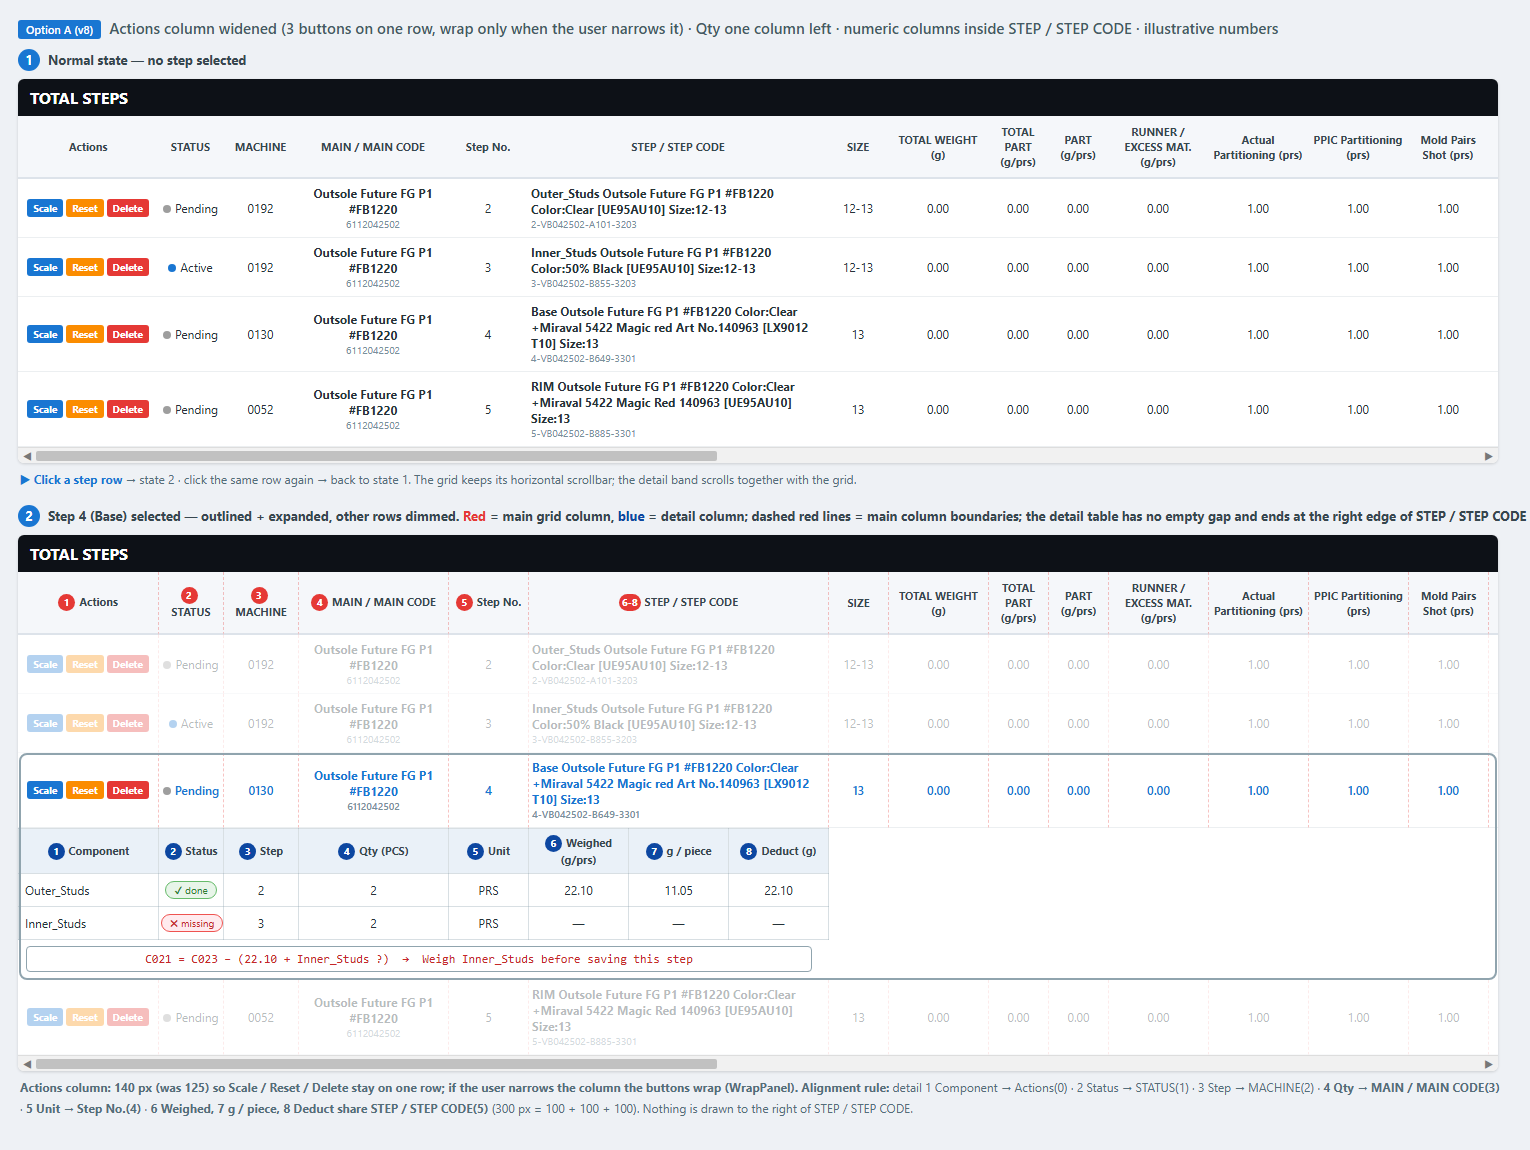
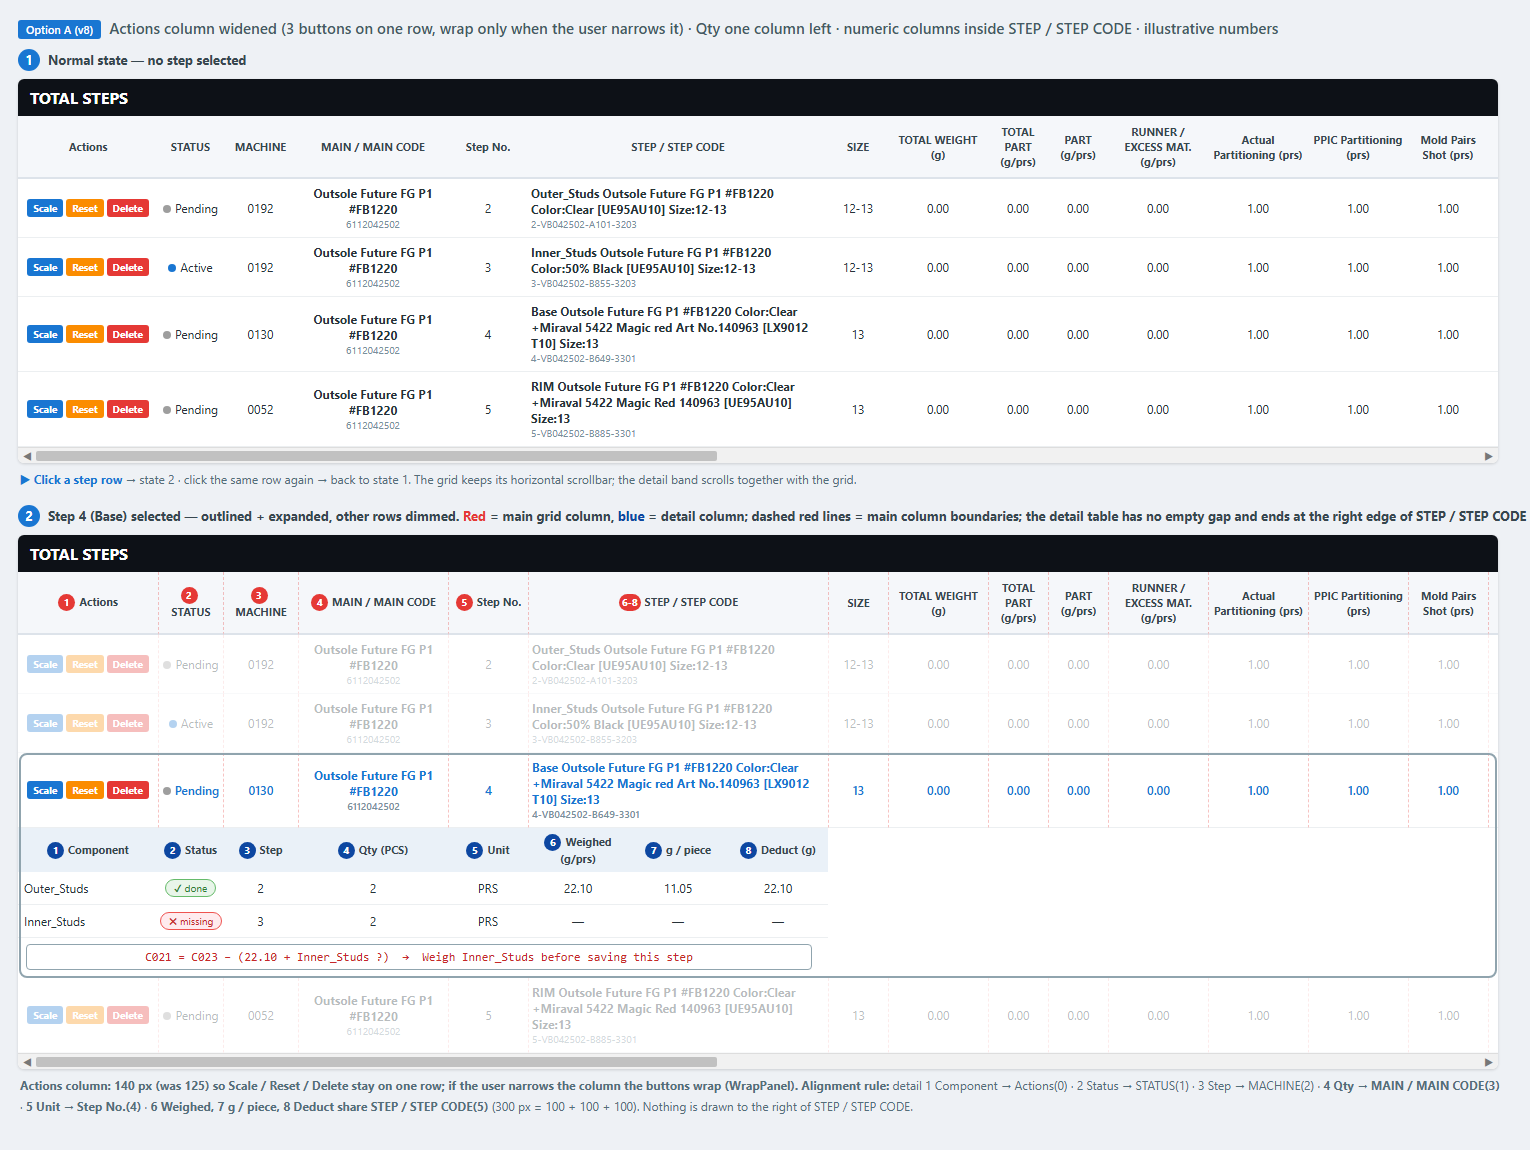
docs: BOM level 2 mockup v8 - detail grid with row separator lines only

diff --git a/SSSW/docs/plan/BOM_LEVEL2_ROW_DETAILS_UI.md b/SSSW/docs/plan/BOM_LEVEL2_ROW_DETAILS_UI.md
@@ -15,7 +15,8 @@
 7. Dời cột Qty sang trái 1 cột (xuống dưới MAIN / MAIN CODE) để không còn khoảng trống; Unit dịch theo xuống dưới Step No.
 8. Nới cột Actions để 3 nút Scale / Reset / Delete nằm trên 1 hàng như ban đầu; chỉ khi user kéo hẹp cột thì nút mới tự rớt xuống dòng.
 9. **Viền highlight của step được chọn phải hiển thị đầy đủ 4 cạnh (trước đó mất cạnh trái và phải).**
-10. **Bảng chi tiết có viền mờ, ăn sát theo đúng số cột chi tiết (8 cột), không kéo dài ra phần lưới phía sau.**
+10. Bảng chi tiết ăn sát theo đúng số cột chi tiết (8 cột), không kéo dài ra phần lưới phía sau.
+11. **Lưới chi tiết kiểu giống ảnh mẫu: tiêu đề nền xanh nhạt, chỉ có đường kẻ ngang giữa các dòng, không có đường kẻ dọc.**
 
 ## 2. Hình thiết kế (v8 — theo đúng lưới thật, bảng chi tiết nằm gọn trong 6 cột đầu, Actions đủ rộng cho 3 nút)
 
@@ -25,7 +26,7 @@
 - Đường gióng đỏ nét đứt = ranh giới cột lưới chính. **Cột chi tiết 1–5 (Component, Status, Step, Qty, Unit) nằm đúng dưới Actions, STATUS, MACHINE, MAIN / MAIN CODE, Step No.** Cột 6–8 (Weighed, g / piece, Deduct) chia đều bề rộng 300px của cột STEP / STEP CODE (100 + 100 + 100), nên bảng chi tiết liền mạch, không có khoảng trống, và kết thúc đúng mép phải cột STEP / STEP CODE.
 - Dải chi tiết rộng bằng cả lưới và **cuộn ngang cùng lưới**; mọi vùng bên phải cột STEP / STEP CODE (từ SIZE trở đi) để trống.
 - **Viền chọn**: khung bo góc, xám xanh `#90A4AE`, đủ 4 cạnh quanh dòng step + bảng chi tiết.
-- **Viền bảng chi tiết**: lưới viền mờ (`#90A4AE` ~35% độ đậm) chỉ bao đúng 8 cột chi tiết (từ Actions đến hết STEP / STEP CODE); khung công thức bên dưới cũng rộng bằng bảng.
+- **Lưới bảng chi tiết**: hàng tiêu đề nền xanh nhạt (`#EAF1F8`); chỉ có đường kẻ ngang mảnh (`#ECEFF1`) giữa các dòng, **không có đường kẻ dọc**; bảng chỉ rộng đúng 8 cột chi tiết (từ Actions đến hết STEP / STEP CODE); khung công thức bên dưới rộng bằng bảng.
 - Dữ liệu trong hình là minh họa (bố cục lấy từ ảnh chụp lưới thật, FG `6112042502`; Qty/trọng lượng chi tiết do mình đặt ví dụ).
 
 ## 3. Ánh xạ cột chi tiết → cột lưới chính
@@ -61,7 +62,7 @@ Quy tắc căn: cột chi tiết 1–5 thẳng hàng với cột lưới 0–4. 
 | Lưới có thanh cuộn ngang | Dải chi tiết là một phần của `RowDetailsTemplate` nên cuộn cùng lưới; không dùng `AreRowDetailsFrozen` | Cần kiểm tra khi cuộn ở app thật |
 | Cột Component hẹp (140px sau khi nới) | Cắt chữ + tooltip hiện mã chi tiết | Nới cột Actions thêm nếu vẫn chật |
 | Viền chọn đủ 4 cạnh | Hình vẽ khung theo bề rộng vùng nhìn thấy của lưới. Trong `DataGridRow`, viền `BorderThickness=2` vẽ cả 4 cạnh nhưng trải theo **bề rộng toàn bộ các cột**, nên cạnh phải chỉ thấy khi cuộn ngang tới cuối | **Cần chốt cách làm** — (1) giữ viền của `DataGridRow` (cạnh phải ở cuối lưới); hoặc (2) vẽ khung phủ theo viewport (phải thêm lớp phủ tính theo vị trí dòng và `ScrollViewer`) để cạnh phải luôn thấy |
-| Viền mờ bảng chi tiết | Mỗi ô chi tiết có `BorderBrush` mờ (`#5990A4AE`), `BorderThickness` 1; không vẽ viền cho phần còn lại của dải | Dễ làm trong `Level2DetailsTemplate`; khung công thức đặt `HorizontalAlignment=Left` và rộng bằng tổng 8 cột |
+| Lưới chi tiết chỉ có đường kẻ ngang | Mỗi dòng chi tiết là một `StackPanel` có `Border` dưới (`BorderThickness="0,0,0,1"`, `#ECEFF1`); các ô không có viền dọc | Dễ làm trong `Level2DetailsTemplate`; khung công thức đặt `HorizontalAlignment=Left` và rộng bằng tổng 8 cột |
 | 3 nút Actions bị rớt dòng ở độ rộng cũ (125px) | Nới cột 0 lên 140px + `WrapPanel` trong ô Actions | Ở 140px nằm 1 hàng; kéo hẹp hơn thì tự xuống dòng, không bị cắt |
 | Chip Status trong 65px | Chữ ngắn "✔ done" / "✖ missing" | Có thể nới nhẹ cột STATUS |
 | `FT600` không có `INotifyPropertyChanged` | `RefreshStepsGridCore()` dựng lại lưới, kèm dựng lại `Level2Items` | Selection bị reset mỗi lần dựng lại → `FocusGridRowAction` chọn lại step đang cân |
@@ -119,5 +120,5 @@ flowchart LR
 - [ ] Màu viền dòng được chọn, tên Component dài, chip "✖ missing" trong cột 65px có chấp nhận được.
 - [ ] Cột STATUS (đã căn lại 2026-11-04) thẳng hàng với MACHINE / Step No.
 - [ ] Viền chọn đủ 4 cạnh (kể cả khi cuộn ngang) — chọn cách (1) hay (2) ở §4.
-- [ ] Viền mờ bảng chi tiết ăn sát 8 cột, không tràn ra phía sau cột STEP / STEP CODE.
+- [ ] Lưới chi tiết giống ảnh mẫu: chỉ có đường kẻ ngang giữa các dòng (không đường dọc), ăn sát 8 cột, không tràn ra phía sau cột STEP / STEP CODE.
 - [ ] Cột Actions 140px: 3 nút Scale / Reset / Delete nằm 1 hàng; kéo hẹp cột thì nút tự rớt dòng, không bị cắt; chiều cao dòng step không phình thêm.

diff --git a/SSSW/docs/sessions/2026-11-04_status-column-align-bom-l2-ui-options.md b/SSSW/docs/sessions/2026-11-04_status-column-align-bom-l2-ui-options.md
@@ -14,7 +14,7 @@
 - Hiểu "gạch chân đều nhau" là căn thẳng hàng theo chiều dọc của ô STATUS với các cột còn lại; nếu ý khác (đường kẻ ngang giữa các dòng) cần ảnh rõ hơn.
 
 ## Đã làm (tiếp) — UI BOM Level 2 (phương án A v3)
-- Mockup v8 (`docs/image/bom_level2_option_A_v8_actions_wide.png`, thay v3–v7; viền chọn đủ 4 cạnh, bảng chi tiết có viền mờ ăn sát 8 cột; cột Actions nới 125 → 140px để 3 nút 1 hàng, `WrapPanel` tự rớt dòng khi kéo hẹp; trước đó: vẽ đủ cột của lưới thật; giữ 8 cột như v3, cột 1–5 căn theo Actions / STATUS / MACHINE / MAIN / Step No. (Qty dời sang trái 1 cột, Unit dịch theo), cột 6–8 (Weighed, g / piece, Deduct) chia đều bề rộng cột STEP / STEP CODE). Code hiện có vẫn theo v3 — chờ duyệt v7 mới sửa: cột chi tiết sắp lại theo thứ tự xanh và căn cùng đường dọc với cột lưới chính (bảng map ở `brainstorm/BOM_LEVEL2_UI_OPTIONS.md`).
+- Mockup v8 (`docs/image/bom_level2_option_A_v8_actions_wide.png`, thay v3–v7; viền chọn đủ 4 cạnh, lưới chi tiết chỉ có đường kẻ ngang giữa các dòng (giống ảnh mẫu), ăn sát 8 cột; cột Actions nới 125 → 140px để 3 nút 1 hàng, `WrapPanel` tự rớt dòng khi kéo hẹp; trước đó: vẽ đủ cột của lưới thật; giữ 8 cột như v3, cột 1–5 căn theo Actions / STATUS / MACHINE / MAIN / Step No. (Qty dời sang trái 1 cột, Unit dịch theo), cột 6–8 (Weighed, g / piece, Deduct) chia đều bề rộng cột STEP / STEP CODE). Code hiện có vẫn theo v3 — chờ duyệt v7 mới sửa: cột chi tiết sắp lại theo thứ tự xanh và căn cùng đường dọc với cột lưới chính (bảng map ở `brainstorm/BOM_LEVEL2_UI_OPTIONS.md`).
 - Code: `models/Level2DetailItem.cs` (mới); `FT600.partial.cs` (+`Level2Items`, `Level2Formula`, `Level2HasMissing`); `ShotWeightViewModel.RefreshLevel2Details()` gọi trong `RefreshStepsGridCore`; `ShotWeightStyles.xaml` (`StepRowStyle`, `Level2DetailsTemplate`, converter `NullToCollapsed`); `ScaleConverters.cs` (`NullToCollapsedConverter`); `ShotWeightWindow.xaml` (+ thuộc tính `dgTotalSteps`); `ShotWeightWindow.xaml.cs` (làm mờ dòng, click lại để bỏ chọn).
 - Hành vi: chọn step → viền nổi + xổ chi tiết, dòng khác mờ; click lại → bỏ chọn; sau Save/Reset lưới được dựng lại và step đang cân tự được chọn lại (xổ chi tiết cập nhật trạng thái cân).
 

diff --git a/SSSW/docs/brainstorm/BOM_LEVEL2_UI_OPTIONS.md b/SSSW/docs/brainstorm/BOM_LEVEL2_UI_OPTIONS.md
@@ -59,7 +59,7 @@ Giữ 8 cột như v3 (đỏ = lưới chính, xanh = chi tiết). Cột 1–5 n
 | 7 | g / piece | STEP / STEP CODE (2/3) | 100 |
 | 8 | Deduct (g) | STEP / STEP CODE (3/3) | 100 |
 
-Viền chọn vẽ đủ 4 cạnh; bảng chi tiết có viền mờ ăn sát 8 cột (không tràn ra phần lưới phía sau).
+Viền chọn vẽ đủ 4 cạnh; lưới bảng chi tiết kiểu giống ảnh mẫu — tiêu đề nền xanh nhạt, chỉ có đường kẻ ngang giữa các dòng, ăn sát 8 cột (không tràn ra phần lưới phía sau).
 
 Cột Actions được nới 125 → 140px để 3 nút Scale / Reset / Delete nằm 1 hàng (ô Actions dùng `WrapPanel`: kéo hẹp cột thì nút tự rớt dòng).
 
